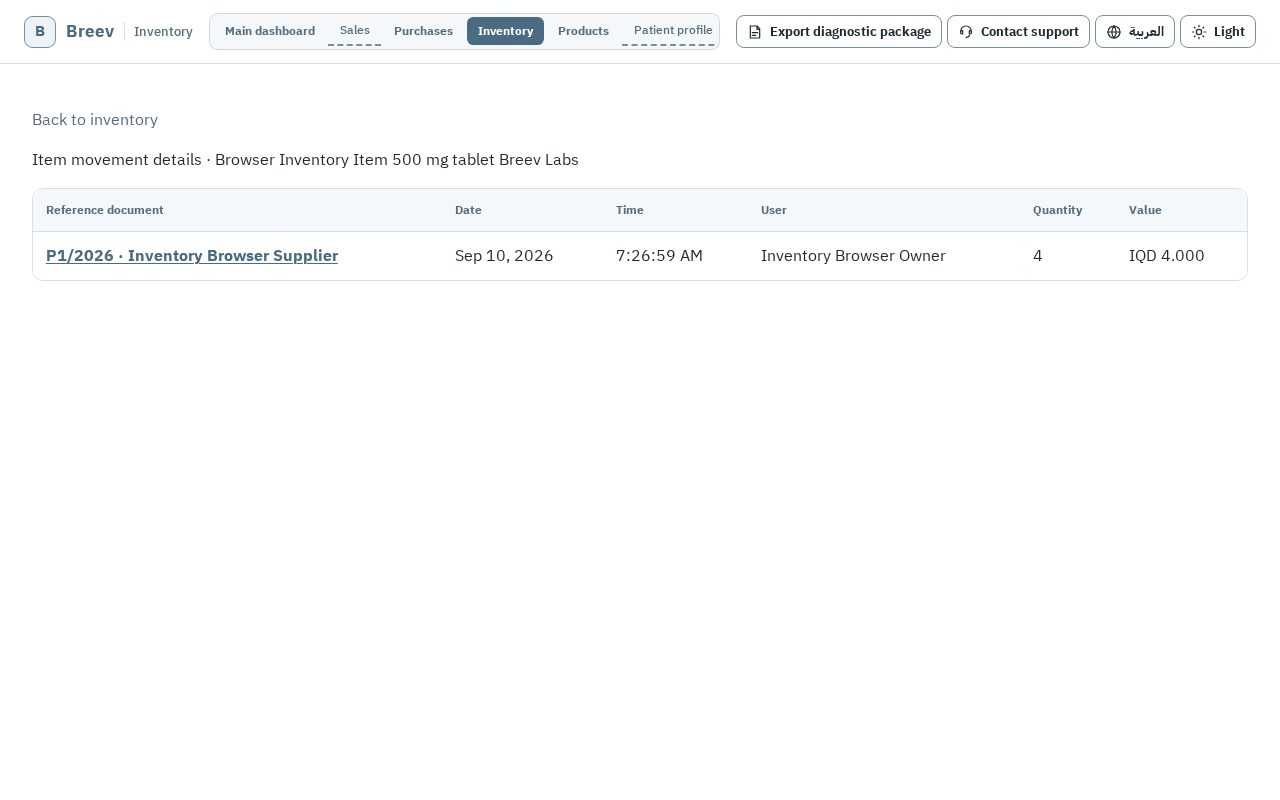
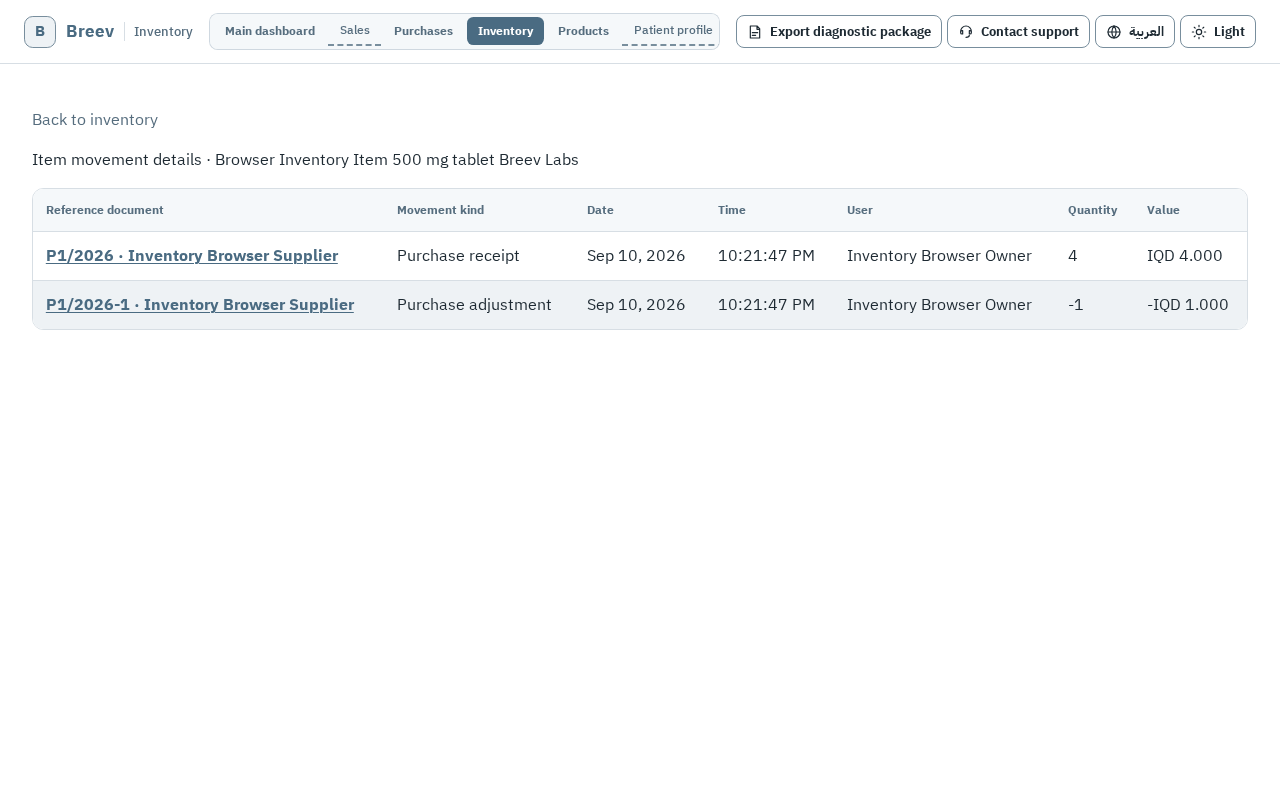
test(inventory): cover the purchase-adjustment movement in the review UI
The renderer branch that labels an adjustment movement was reachable in
production but exercised by no test, because the inventory browser fixture
only ever posted a purchase. The fixture now also posts a reducing quantity
adjustment, so Item Movement Details renders both kinds with their reference
document, date, time, user, quantity and value in Arabic and English, and the
product stays below its minimum so the risk indicators remain covered.
Localized numeric assertions ignore invisible bidi marks, which Arabic
formatting emits before a negative sign. Evidence regenerated.

Claude-Session: https://claude.ai/code/session_01G8gpCVzHY8LBPVUWFYw7Eu

diff --git a/apps/desktop/test/browser/inventory.browser.test.ts b/apps/desktop/test/browser/inventory.browser.test.ts
@@ -5,10 +5,17 @@ import {
   BREEV_CSRF_VALUE,
   LOCAL_DEVICE_ID_HEADER,
   LOCAL_DEVICE_SESSION_HEADER,
+  purchaseAdjustmentDraftPath,
+  purchaseAdjustmentDraftsPath,
+  purchaseAdjustmentPostingsPath,
+  purchaseAdjustmentSummaryPath,
   purchaseDraftPostingsPath,
   purchaseDraftRowsPath,
   type Product,
   type ProductCreateRequest,
+  type PurchaseAdjustmentDraft,
+  type PurchaseAdjustmentPostResult,
+  type PurchaseAdjustmentSummary,
   type PurchaseDraft,
   type PurchasePostResult,
   type Supplier,
@@ -116,7 +123,8 @@ test.describe.serial("read-only inventory review", () => {
     );
     expect(created.status).toBe(201);
     product = created.body as Product;
-    await postPurchase(supplier, product);
+    const purchase = await postPurchase(supplier, product);
+    await postPurchaseAdjustment(purchase.posted.id);
     await createManagerUser(
       String(
         (bootstrap.body as { pharmacy?: { id?: string } }).pharmacy?.id ?? "",
@@ -230,6 +238,7 @@ test.describe.serial("read-only inventory review", () => {
     await expect(
       page.getByRole("heading", { name: "Item movement details" }),
     ).toContainText(product.displayName);
+    await assertMovementDetails(page, "en");
     const reference = page.locator(
       "tbody tr:first-child td:first-child button",
     );
@@ -294,6 +303,7 @@ test.describe.serial("read-only inventory review", () => {
             name: locale === "ar" ? "مراجعة المخزون" : "Inventory review",
           }),
         ).toBeVisible();
+        await assertInventoryRow(page, locale);
         expect((await new AxeBuilder({ page }).analyze()).violations).toEqual(
           [],
         );
@@ -316,6 +326,7 @@ test.describe.serial("read-only inventory review", () => {
               locale === "ar" ? "تفاصيل حركات المادة" : "Item movement details",
           }),
         ).toBeVisible();
+        await assertMovementDetails(page, locale);
         expect((await new AxeBuilder({ page }).analyze()).violations).toEqual(
           [],
         );
@@ -643,7 +654,10 @@ async function createSupplier(): Promise<Supplier> {
   return response.body as Supplier;
 }
 
-async function postPurchase(supplier: Supplier, item: Product): Promise<void> {
+async function postPurchase(
+  supplier: Supplier,
+  item: Product,
+): Promise<PurchasePostResult> {
   const created = await apiRequest("POST", "/purchases/drafts", {
     idempotencyKey: uuidV7(),
     invoiceDate: "2026-06-15",
@@ -672,9 +686,202 @@ async function postPurchase(supplier: Supplier, item: Product): Promise<void> {
     idempotencyKey: uuidV7(),
   });
   expect(posted.status).toBe(201);
+  const result = posted.body as PurchasePostResult;
+  expect(result.posted.id).toBeTruthy();
+  return result;
+}
+
+async function postPurchaseAdjustment(purchaseId: string): Promise<void> {
+  const created = await apiRequest(
+    "POST",
+    purchaseAdjustmentDraftsPath(purchaseId),
+    {
+      evidence: null,
+      idempotencyKey: uuidV7(),
+      reason: "quantity error",
+    },
+  );
+  expect(created.status).toBe(201);
+  const draft = created.body as PurchaseAdjustmentDraft;
+  const updated = await apiRequest(
+    "PUT",
+    purchaseAdjustmentDraftPath(draft.id),
+    {
+      evidence: null,
+      expectedVersion: draft.version,
+      idempotencyKey: uuidV7(),
+      reason: draft.reason,
+      rows: draft.rows.map((row) => ({
+        costFils: row.costFils,
+        enteredQuantity: (BigInt(row.enteredQuantity) - 1n).toString(),
+        expiryDate: row.expiryDate,
+        itemId: row.itemId,
+        lineageId: row.lineageId,
+        lotNumber: row.lotNumber,
+        notes: row.notes,
+        originalRowId: row.originalRowId,
+        pricing:
+          row.pricingMethod === "by-price"
+            ? { method: "by-price", retailPriceFils: row.retailPriceFils }
+            : {
+                marginPercentage: row.marginPercentage ?? "0",
+                method: "by-percentage",
+              },
+        unit: row.unit,
+      })),
+      supplierId: draft.supplierId,
+      supplierInvoiceNumber: draft.supplierInvoiceNumber,
+    },
+  );
+  expect(updated.status).toBe(200);
+  const updatedDraft = updated.body as PurchaseAdjustmentDraft;
+  const summaryResponse = await apiRequest(
+    "GET",
+    purchaseAdjustmentSummaryPath(updatedDraft.id),
+  );
+  expect(summaryResponse.status).toBe(200);
+  const summary = summaryResponse.body as PurchaseAdjustmentSummary;
+  const posted = await apiRequest(
+    "POST",
+    purchaseAdjustmentPostingsPath(updatedDraft.id),
+    {
+      confirmationHash: summary.confirmationHash,
+      expectedVersion: updatedDraft.version,
+      idempotencyKey: uuidV7(),
+    },
+  );
+  expect(posted.status).toBe(201);
   expect(
-    ((posted.body as PurchasePostResult).posted as { id?: string }).id,
-  ).toBeTruthy();
+    (posted.body as PurchaseAdjustmentPostResult).posted.quantityDelta,
+  ).toBe("-1");
+}
+
+async function assertInventoryRow(
+  page: Page,
+  locale: "ar" | "en",
+): Promise<void> {
+  const row = page.locator("tbody tr").first();
+  await expect
+    .poll(async () =>
+      normalizeBidiMarks(
+        await row.locator("td[data-column-field='balance']").innerText(),
+      ),
+    )
+    .toBe(locale === "ar" ? "٣" : "3");
+  await expect
+    .poll(async () =>
+      normalizeBidiMarks(
+        await row.locator("td[data-column-field='value']").innerText(),
+      ),
+    )
+    .toMatch(locale === "ar" ? /٣٫٠٠٠/u : /IQD\s*3\.000/u);
+  await expect
+    .poll(async () =>
+      normalizeBidiMarks(
+        await row.locator("td[data-column-field='averageCost']").innerText(),
+      ),
+    )
+    .toMatch(locale === "ar" ? /١٫٠٠٠/u : /IQD\s*1\.000/u);
+  await expect
+    .poll(async () =>
+      normalizeBidiMarks(
+        await row
+          .locator("td[data-column-field='consumptionRate']")
+          .innerText(),
+      ),
+    )
+    .toBe(locale === "ar" ? "٠" : "0");
+
+  const riskCell = row.locator("td[data-column-field='risk']");
+  await expect(
+    riskCell.locator("[data-indicator='below-minimum']"),
+  ).toContainText(locale === "ar" ? "دون الحد الأدنى" : "Below minimum");
+  await expect(
+    riskCell.locator("[data-indicator='at-or-below-reorder-point']"),
+  ).toContainText(
+    locale === "ar"
+      ? "عند نقطة إعادة الطلب أو دونها"
+      : "At or below reorder point",
+  );
+}
+
+async function assertMovementDetails(
+  page: Page,
+  locale: "ar" | "en",
+): Promise<void> {
+  const labels =
+    locale === "ar"
+      ? {
+          adjustment: "تعديل شراء",
+          receipt: "استلام شراء",
+        }
+      : {
+          adjustment: "Purchase adjustment",
+          receipt: "Purchase receipt",
+        };
+  const table = page.locator(".inventory-table-scroll table");
+  await expect(table.locator("thead th")).toHaveText(
+    locale === "ar"
+      ? [
+          "المستند المرجعي",
+          "نوع الحركة",
+          "التاريخ",
+          "الوقت",
+          "المستخدم",
+          "الكمية",
+          "القيمة",
+        ]
+      : [
+          "Reference document",
+          "Movement kind",
+          "Date",
+          "Time",
+          "User",
+          "Quantity",
+          "Value",
+        ],
+  );
+  const rows = table.locator("tbody tr");
+  await expect(rows).toHaveCount(2);
+  await expect(rows.nth(0).locator("td").nth(1)).toHaveText(labels.receipt);
+  await expect(rows.nth(1).locator("td").nth(1)).toHaveText(labels.adjustment);
+
+  const adjustmentCells = rows.nth(1).locator("td");
+  await expect(adjustmentCells).toHaveCount(7);
+  await expect(adjustmentCells.nth(0)).toHaveText(
+    /P\d+\/\d+-\d+ · Inventory Browser Supplier/u,
+  );
+  await expect
+    .poll(async () =>
+      normalizeBidiMarks(await adjustmentCells.nth(2).innerText()),
+    )
+    .toMatch(/\S/u);
+  await expect
+    .poll(async () =>
+      normalizeBidiMarks(await adjustmentCells.nth(3).innerText()),
+    )
+    .toMatch(/\S/u);
+  await expect(adjustmentCells.nth(4)).toHaveText("Inventory Browser Owner");
+  await expect
+    .poll(async () =>
+      normalizeBidiMarks(await adjustmentCells.nth(5).innerText()),
+    )
+    .toBe(locale === "ar" ? "-١" : "-1");
+  await expect
+    .poll(async () =>
+      normalizeBidiMarks(await adjustmentCells.nth(6).innerText()),
+    )
+    .toMatch(/-/u);
+  await expect
+    .poll(async () =>
+      normalizeBidiMarks(await adjustmentCells.nth(6).innerText()),
+    )
+    .not.toBe("—");
+}
+
+// Strip locale bidi marks so RTL numeric and date output compares by its visible value.
+function normalizeBidiMarks(value: string): string {
+  return value.replace(/[\u061C\u200E\u200F\u2068\u2069]/gu, "");
 }
 
 function medicationRequest(): ProductCreateRequest {
